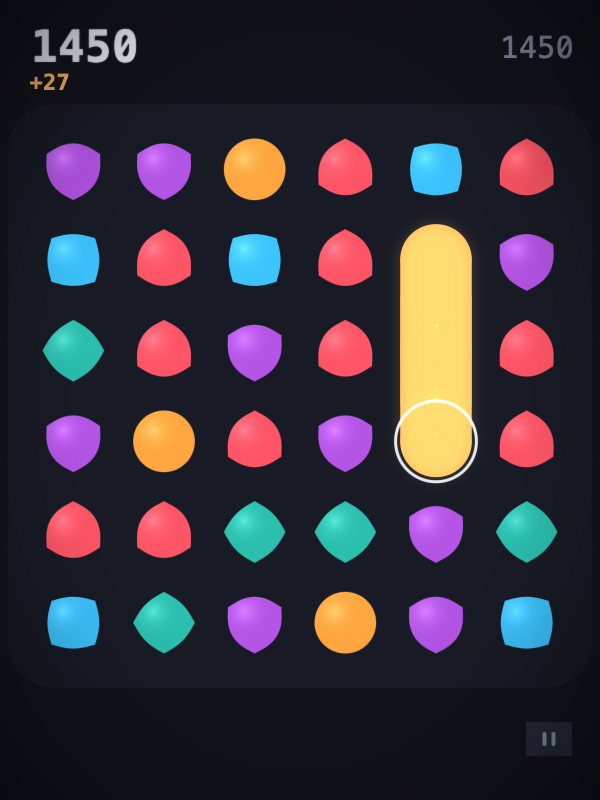
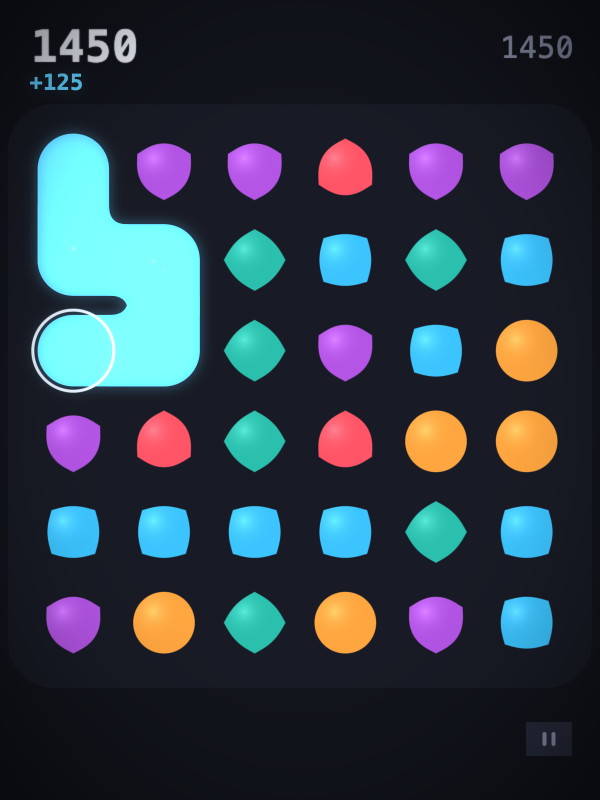
One line under the board, not two overlapping ones
The level line and the par line were each two lines of their own, at offsets set
before the type sizes went up: at 21 and 22 they overlapped each other, and the par
ran into the pause button. Now one line on the pause button's centreline - which
level of how many and its name on the left, what it has paid of what it could on the
right, ending clear of the button.

"this level" goes with it: a score over a larger score in that position is a target
without needing to be called one.

diff --git a/src/view.js b/src/view.js
@@ -423,37 +423,43 @@ export class GameView {
     // that mode is belong in the pause menu, where they are read once.
     const special = game.hoveredSpecial()
     const level = game.currentLevel
+    // One line, on the pause button's centreline: which level this is on the left and what it
+    // has paid against what it could on the right. The strip is 34 high and the type in it is
+    // 21, so there is room for one line and not two.
+    const stripY = PAUSE_BUTTON.y + PAUSE_BUTTON.h / 2
     if (special) {
-      renderer.text(`${special.name}: ${special.blurb}`, 28, HUD_BOTTOM + 22, {
+      renderer.text(`${special.name}: ${special.blurb}`, 28, stripY, {
         color: theme.accent,
-        size: 18,
+        size: 19,
+        baseline: "middle",
       })
     } else if (level && game.phase === PHASE.PLAYING) {
-      renderer.text(`Level ${game.level + 1} of ${game.mode.levels.length}`, 28, HUD_BOTTOM + 16, {
+      // Which of how many, faint, then the level's own name: the count is a label and the name
+      // is the thing, so they are drawn as two on one line to keep that difference.
+      const count = `${game.level + 1}/${game.mode.levels.length}: `
+      renderer.text(count, 28, stripY, {
         color: theme.text.faint,
-        size: 18,
+        size: 21,
+        baseline: "middle",
       })
-      renderer.text(level.name, 28, HUD_BOTTOM + 34, {
+      renderer.text(level.name, 28 + renderer.measureText(count, 21), stripY, {
         color: theme.text.dim,
-        size: 22,
+        size: 21,
+        baseline: "middle",
         bold: true,
       })
-      // What this level has paid against the most it can, which is a real target: the
-      // best any order of chains could score while still clearing it. The running score
-      // is no use for that, since it carries across levels.
+      // What this level has paid against the most it can, which is a real target: the best any
+      // order of chains could score while still clearing it. The running score is no use for
+      // that, since it carries across levels. Right edge clear of the pause button.
       if (game.levelPar > 0) {
         const reached = game.levelScore >= game.levelPar
-        renderer.text(`${game.levelScore} / ${game.levelPar}`, VIEW_W - 92, HUD_BOTTOM + 28, {
+        renderer.text(`${game.levelScore} / ${game.levelPar}`, PAUSE_BUTTON.x - 18, stripY, {
           color: reached ? theme.accent : theme.text.dim,
-          size: 22,
+          size: 21,
           align: "right",
+          baseline: "middle",
           bold: true,
           glow: reached ? 0.8 : 0,
-        })
-        renderer.text("this level", VIEW_W - 92, HUD_BOTTOM + 12, {
-          color: theme.text.faint,
-          size: 17,
-          align: "right",
         })
       }
     }
